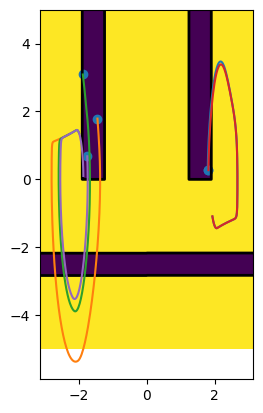
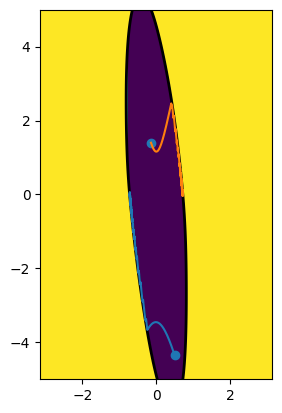
first draft of cma-es baseline

diff --git a/rollout_cbf_classes/cma_es_evaluator.py b/rollout_cbf_classes/cma_es_evaluator.py
@@ -8,6 +8,9 @@ import math
 from rollout_cbf_classes.cart_pole_env import CartPoleEnv
 import seaborn as sns
 
+# TODO: check if phi_fn, phi_grad are correct.
+# TODO: check if evaluate is correct. Add reg term
+
 class Evaluator(object):
     # Each evaluator must contain two major functions: set_params(params) and evaluate(params)
     def set_params(self, params):
@@ -31,10 +34,18 @@ class CartPoleEvaluator(object):
 
         self.env = CartPoleEnv()
 
-        self.coe = np.zeros(4)
+        self.coe = np.zeros(4) # parameters; initialization doesn't matter
+        """
+        What's in self.coe?
+        0: power
+        1: weight on dot_theta term 
+        2: additive scalar
+        3: weight dotphi < -weight*phi
+        """
+
+        # Sample state space
         n_theta = 100
         n_ang = 100
-        
         self.thetas = np.linspace(0, self.env.max_theta, n_theta)
         self.ang_vels = np.linspace(-self.env.max_angular_velocity, self.env.max_angular_velocity, n_ang)
         m1, m2 = np.meshgrid(self.thetas, self.ang_vels)
@@ -43,25 +54,44 @@ class CartPoleEvaluator(object):
         for i,j in np.ndindex(m1.shape):
             self.samples.append([i,j])
 
+        # Defining some var
         self.max_u = np.vstack([self.env.max_force])
         self.dt = self.env.dt
 
-        self.d_min = 1
+        self.reg_weight = 1.0 # TODO: need to tune to get possible result
+
+        # self.d_min = 1
         
-    def phi(self, x):
+    def phi_fn(self, x):
+        """
+        :param x: (N_batch, 4)
+        :return: (N_batch, r+1) where r is degree
+        """
+        # batched
+        x = np.reshape(x, (-1, 4))
         # x =  [x theta, dot_x, dot_theta]
         # phi = theta ** a1 - theta_max ** a1 + a2 * dot_theta + a3
         # phi_0 = theta ** 2 - theta_max ** 2
 
-        # invariant set: (phi < 0 or dot_phi < 0 (with a valid control)) and phi_0 < 0
-        theta = x[1]
-        dot_theta = x[3]
-        return theta ** self.coe[0] - self.env.max_theta ** self.coe[0] + self.coe[1] * dot_theta + self.coe[2]
+        # invariant set: (phi < 0 or dot_phi < 0 (with a valid control)) and phi_0 < 0 # TODO: Simin, this may not be correct.
+        theta = x[:, 1]
+        dot_theta = x[:, 3]
 
-    def grad_phi(self, x):
+        phi_0 = theta**2 - self.env.theta_safe_lim**2
+        phi_1 = phi_0 + self.coe[1]*theta*dot_theta
+        phi = theta ** self.coe[0] - self.env.theta_safe_lim ** self.coe[0] + self.coe[2] + self.coe[1] * theta*dot_theta
+        phis = np.concatenate((phi_0, phi_1, phi), axis=1)
+        return phis
+
+    def phi_grad(self, x):
+        """
+        :param x: (4)
+        :return: (4)
+        """
+        # not batched
         theta = x[1]
         dot_theta = x[3]
-        return np.hstack([0, self.coe[0] * theta ** (self.coe[0]-1), 0, self.coe[1]])
+        return np.hstack([0, self.coe[0] * theta ** (self.coe[0]-1) + self.coe[1]*dot_theta, 0, self.coe[1]*theta])
 
     def set_params(self, params):
         self.coe = params
@@ -75,32 +105,51 @@ class CartPoleEvaluator(object):
     def evaluate(self, params):
         self.set_params(params)
         valid = 0
+        in_invariant = 0
         for sample in self.samples:
             idx = sample
             x = [0, self.thetas[idx[0]], 0, self.ang_vels[idx[1]]]
-            phi = self.phi(x)
+            phis = self.phi_fn(x)
+            phi = phis[0, -1]
             # C dot_x < d
-            # phi(x_k) > 0 -> con: dot_phi(x_k) < -k*phi(x): C = self.grad_phi(x, o)  d = -phi/dt*self.coe[0]
+            # phi(x_k) > 0 -> con: dot_phi(x_k) < -k*phi(x): C = self.grad_phi(x, o)  d = -phi*self.coe[3]
             # phi(x_k) < 0 -> con: phi(x_k+1) < 0:           C = self.grad_phi(x, o)  d = -phi/dt
             C = self.grad_phi(x)
-            d = -phi/self.dt if phi < 0 else -phi/self.dt*self.coe[2]
+            d = -phi/self.dt if phi < 0 else -phi*self.coe[3]
             valid += self.has_valid_control(C, d, x)
+
+            if np.max(phis) <= 0:
+                in_invariant += 1
 
         self.valid = valid
         valid_rate = valid * 1.0 / len(self.samples)
 
-        return valid_rate
+        #### Reg term ####
+        in_invariant_rate = float(in_invariant)/len(self.samples)
+
+        # Log
+        self.valid_rate = valid_rate
+        self.in_invariant_rate = in_invariant_rate
+
+        rv = valid_rate + self.reg_weight*in_invariant_rate
+        return rv
 
     def visualize(self, params):
+        """
+        Visualizes where in the state space we have valid safe control...
+        :param params:
+        :return:
+        """
         self.set_params(params)
         valid_cnt = np.zeros((len(self.thetas), len(self.ang_vels)))
         tot_cnt = 0
         for sample in self.samples:
             idx = sample
             x = [0, self.thetas[idx[0]], 0, self.ang_vels[idx[1]]]
-            phi = self.phi(x)
+            phis = self.phi_fn(x)
+            phi = phis[0, -1]
             C = self.grad_phi(x)
-            d = -phi/self.dt if phi < 0 else -phi/self.dt*self.coe[2]
+            d = -phi/self.dt if phi < 0 else -phi*self.coe[3]
             if not self.has_valid_control(C, d, x):
                 continue
             valid_cnt[idx[0], idx[1]] += 1
@@ -130,4 +179,7 @@ class CartPoleEvaluator(object):
 
     @property
     def log(self):
-        return "{} {}".format(str(self.coe), str(self.valid))
+        # return "{} {}".format(str(self.coe), str(self.valid))
+        # return "{} {} {}".format(str(self.coe), str(self.valid))
+        s = "Params: %s, valid rate: %f, volume rate: %f" % (str(self.coe), self.valid_rate, self.in_invariant_rate)
+        return s

diff --git a/rollout_cbf_classes/cma_es.py b/rollout_cbf_classes/cma_es.py
@@ -5,6 +5,7 @@ import cma_es_evaluator
 import os, sys
 from datetime import datetime
 import yaml
+import pickle
 
 class CMAESLearning(object):
     def __init__(self, CMAES_args):
@@ -104,6 +105,12 @@ class CMAESLearning(object):
         print("Final reward:")
         print(self.evaluate(mu, log=False))
         self.evaluator.visualize(mu)
+
+        # Note: add save
+        # save_fpth = "./cma_es_results/%s" %
+        # with open(save_fpth, 'wb') as handle:
+        #     pickle.dump(save_dict, handle, protocol=pickle.HIGHEST_PROTOCOL)
+
         return mu
 
 def main(config_path):

diff --git a/rollout_cbf_classes/cart_pole_env.py b/rollout_cbf_classes/cart_pole_env.py
@@ -5,10 +5,11 @@ import math
 class CartPoleEnv():
     def __init__(self):
         self.dt = 0.005 # TODO
-        self.max_theta = math.pi
-        self.max_theta = math.pi/4.0
+        self.max_theta = math.pi # state space limit
+        self.max_angular_velocity = 5.0 # state space limit
+
+        self.theta_safe_lim = math.pi/4.0
         self.max_force = 22.0
-        self.max_angular_velocity = 5.0 # state space constraint
 
         self.g = 9.81
         self.I = 1.2E-3

diff --git a/rollout_experiment.py b/rollout_experiment.py
@@ -191,8 +191,8 @@ if __name__ == "__main__":
 	makedirs(os.path.join("rollout_results", log_folder))
 
 	# TODO: fill out run arguments
-	N_rollout = 2
-	T_max = 1.0 # in seconds
+	N_rollout = 100
+	T_max = 1.5 # in seconds
 	N_dt = int(T_max/dt)
 
 	if which_cbf == "our_cbf_football":
